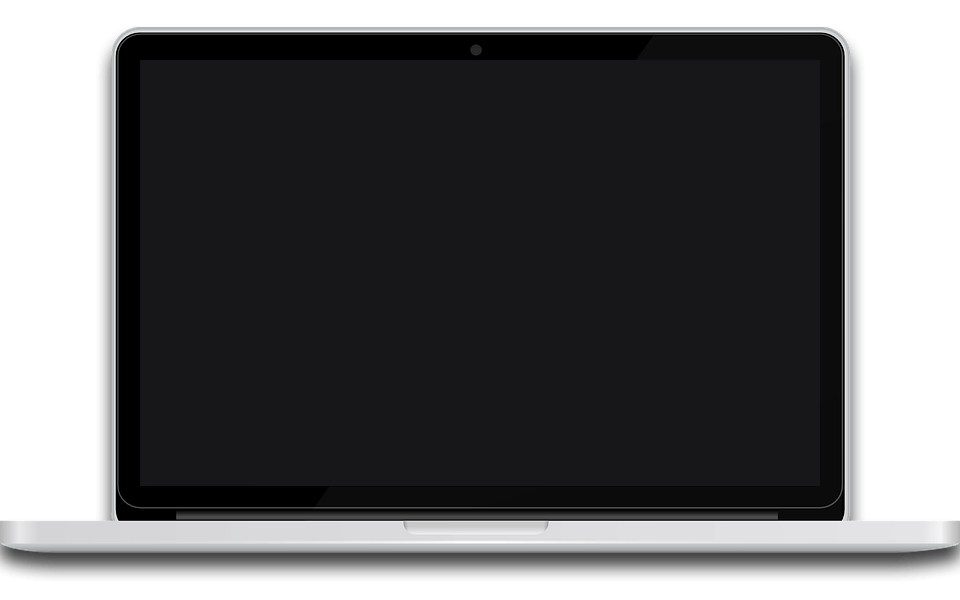
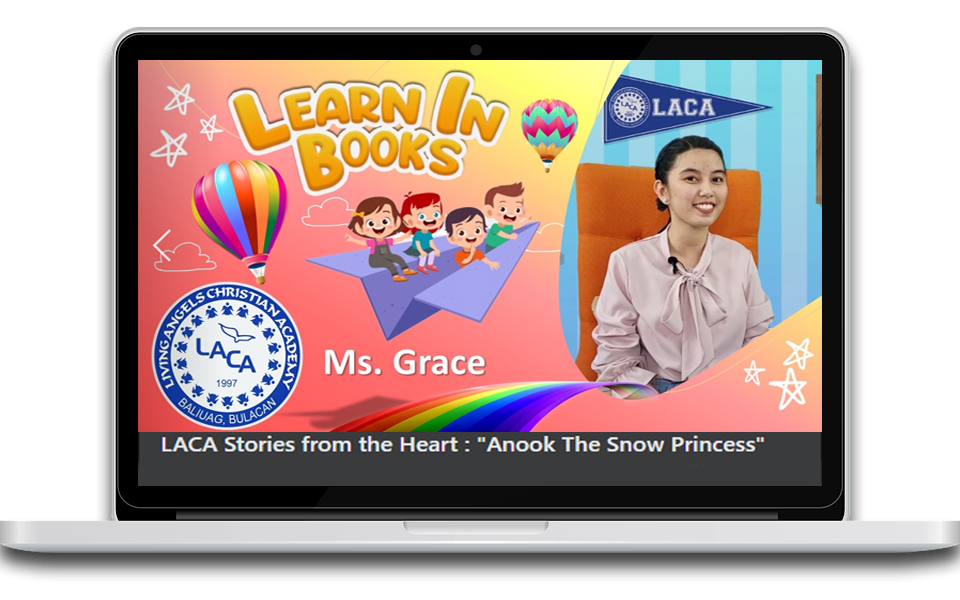
gsgf

diff --git a/assets/css/Slider-laptop.css b/assets/css/Slider-laptop.css
@@ -82,140 +82,14 @@
 
 /* ---------- SLIDER ---------- */
 
-#x_001_laptop {
-  top: 10%;
-  right: 0;
-  width: 71%;
-  height: 71%;
-  left: -0.5%;
-  bottom: auto;
-  margin: auto;
-  overflow: hidden;
-  position: absolute;
-  background: #17171a;
-}
 
-#x_001_laptop > .carousel-inner:hover {
-  cursor: -moz-grab;
-  cursor: -webkit-grab;
-}
-
-#x_001_laptop > .carousel-inner:active {
-  cursor: -moz-grabbing;
-  cursor: -webkit-grabbing;
-}
-
-#x_001_laptop > .carousel-inner > .carousel-item {
-  overflow: hidden;
-}
-
-#x_001_laptop > .carousel-inner > .carousel-item > img {
-  width: 100%;
-  margin: auto;
-}
 
 /* ---------- INDICATORS CONTROL ---------- */
 
-.x_001_laptop_indicators > .carousel-indicators {
-  left: 0;
-  right: 0;
-  margin: 0;
-  bottom: 0;
-  width: 100%;
-  font-size: 0;
-  height: 15px;
-  padding: 0 5px;
-  display: block;
-  overflow-x: auto;
-  overflow-y: hidden;
-  position: absolute;
-  text-align: center;
-  white-space: nowrap;
-}
-
-.x_001_laptop_indicators > .carousel-indicators li:before, .x_001_laptop_indicators > .carousel-indicators li:after {
-  display: none;
-}
-
-.x_001_laptop_indicators > .carousel-indicators li {
-  padding: 0;
-  width: 8px;
-  height: 8px;
-  border: none;
-  margin: 0 3px;
-  text-indent: 0;
-  cursor: pointer;
-  background: #ffffff;
-  display: inline-block;
-  -webkit-border-radius: 100%;
-  border-radius: 100%;
-}
-
-.x_001_laptop_indicators > .carousel-indicators .active {
-  padding: 0;
-  width: 8px;
-  height: 8px;
-  border: none;
-  margin: 0 3px;
-  background: #ff5a0e;
-  -webkit-border-radius: 100%;
-  border-radius: 100%;
-}
-
-.x_001_laptop_indicators > .carousel-indicators::-webkit-scrollbar {
-  height: 2px;
-}
-
-.x_001_laptop_indicators > .carousel-indicators::-webkit-scrollbar-thumb {
-  background: #eeeeee;
-  -webkit-border-radius: 0;
-  border-radius: 0;
-}
 
 /* ---------- LEFT/RIGHT CONTROL ---------- */
 
-.x_001_laptop_control_button .carousel-control-prev, .x_001_laptop_control_button .carousel-control-next {
-  top: 40%;
-  width: 20px;
-  bottom: auto;
-  height: 40px;
-  opacity: 0.9;
-  color: #ff5a0e;
-  font-size: 14px;
-  cursor: pointer;
-  font-weight: 700;
-  overflow: hidden;
-  line-height: 40px;
-  text-shadow: none;
-  text-align: center;
-  position: absolute;
-  background: #ffffff;
-  text-transform: uppercase;
-  -webkit-box-shadow: none;
-  box-shadow: none;
-  -webkit-transition: all 0.6s cubic-bezier(0.22,0.81,0.01,0.99);
-  transition: all 0.6s cubic-bezier(0.22,0.81,0.01,0.99);
-}
 
-.x_001_laptop_control_button .carousel-control-prev {
-  left: 0;
-  right: auto;
-  -webkit-border-radius: 0 100px 100px 0;
-  border-radius: 0 100px 100px 0;
-}
-
-.x_001_laptop_control_button .carousel-control-next {
-  left: auto;
-  right: 0;
-  -webkit-border-radius: 100px 0 0 100px;
-  border-radius: 100px 0 0 100px;
-}
-
-.x_001_laptop_control_button .carousel-control-prev:hover, .x_001_laptop_control_button .carousel-control-next:hover {
-  opacity: 1;
-  color: #ffffff;
-  background: #ff5a0e;
-}
 
 /* ------------------------------------------------------ */
 
@@ -291,136 +165,4 @@
 /* SLIDING TIMING FUNCTIONS
 /*-------------------------------------------- */
 
-/* ----- ps_ease ----- */
-
-.ps_ease .carousel-item {
-  -webkit-transition-timing-function: ease;
-  transition-timing-function: ease;
-}
-
-/* ----- ps_easeInOut ----- */
-
-.ps_easeInOut .carousel-item {
-  -webkit-transition-timing-function: ease-in-out;
-  transition-timing-function: ease-in-out;
-}
-
-/* ----- ps_speedy ----- */
-
-.ps_speedy .carousel-item {
-  -webkit-transition-timing-function: cubic-bezier(0,1,0,1);
-  transition-timing-function: cubic-bezier(0,1,0,1);
-}
-
-/* ----- ps_slowSpeedy ----- */
-
-.ps_slowSpeedy .carousel-item {
-  -webkit-transition-timing-function: cubic-bezier(0.3,1,0,1);
-  transition-timing-function: cubic-bezier(0.3,1,0,1);
-}
-
-/* ----- ps_easeOutInCubic ----- */
-
-.ps_easeOutInCubic .carousel-item {
-  -webkit-transition-timing-function: cubic-bezier(0.22,0.81,0.01,0.99);
-  transition-timing-function: cubic-bezier(0.22,0.81,0.01,0.99);
-}
-
-/* ----- ps_swing ----- */
-
-.ps_swing .carousel-item {
-  -webkit-transition-timing-function: cubic-bezier(.02,.01,.47,1);
-  transition-timing-function: cubic-bezier(.02,.01,.47,1);
-}
-
-/* ----- ps_easeOutCubic ----- */
-
-.ps_easeOutCubic .carousel-item {
-  -webkit-transition-timing-function: cubic-bezier(.215,.61,.355,1);
-  transition-timing-function: cubic-bezier(.215,.61,.355,1);
-}
-
-/* ----- ps_easeInOutCubic ----- */
-
-.ps_easeInOutCubic .carousel-item {
-  -webkit-transition-timing-function: cubic-bezier(.645,.045,.355,1);
-  transition-timing-function: cubic-bezier(.645,.045,.355,1);
-}
-
-/* ----- ps_easeOutCirc ----- */
-
-.ps_easeOutCirc .carousel-item {
-  -webkit-transition-timing-function: cubic-bezier(.075,.82,.165,1);
-  transition-timing-function: cubic-bezier(.075,.82,.165,1);
-}
-
-/* ----- ps_easeOutExpo ----- */
-
-.ps_easeOutExpo .carousel-item {
-  -webkit-transition-timing-function: cubic-bezier(.19,1,.22,1);
-  transition-timing-function: cubic-bezier(.19,1,.22,1);
-}
-
-/* ----- ps_easeInQuad ----- */
-
-.ps_easeInQuad .carousel-item {
-  -webkit-transition-timing-function: cubic-bezier(.55,.085,.68,.53);
-  transition-timing-function: cubic-bezier(.55,.085,.68,.53);
-}
-
-/* ----- ps_easeOutQuad ----- */
-
-.ps_easeOutQuad .carousel-item {
-  -webkit-transition-timing-function: cubic-bezier(.25,.46,.45,.94);
-  transition-timing-function: cubic-bezier(.25,.46,.45,.94);
-}
-
-/* ----- ps_easeInOutQuad ----- */
-
-.ps_easeInOutQuad .carousel-item {
-  -webkit-transition-timing-function: cubic-bezier(.455,.03,.515,.955);
-  transition-timing-function: cubic-bezier(.455,.03,.515,.955);
-}
-
-/* ----- ps_easeOutQuart ----- */
-
-.ps_easeOutQuart .carousel-item {
-  -webkit-transition-timing-function: cubic-bezier(.165,.84,.44,1);
-  transition-timing-function: cubic-bezier(.165,.84,.44,1);
-}
-
-/* ----- ps_easeInOutQuart ----- */
-
-.ps_easeInOutQuart .carousel-item {
-  -webkit-transition-timing-function: cubic-bezier(.77,0,.175,1);
-  transition-timing-function: cubic-bezier(.77,0,.175,1);
-}
-
-/* ----- ps_easeOutQuint ----- */
-
-.ps_easeOutQuint .carousel-item {
-  -webkit-transition-timing-function: cubic-bezier(.23,1,.32,1);
-  transition-timing-function: cubic-bezier(.23,1,.32,1);
-}
-
-/* ----- ps_easeInSine ----- */
-
-.ps_easeInSine .carousel-item {
-  -webkit-transition-timing-function: cubic-bezier(.47,0,.745,.715);
-  transition-timing-function: cubic-bezier(.47,0,.745,.715);
-}
-
-/* ----- ps_easeOutSine ----- */
-
-.ps_easeOutSine .carousel-item {
-  -webkit-transition-timing-function: cubic-bezier(.39,.575,.565,1);
-  transition-timing-function: cubic-bezier(.39,.575,.565,1);
-}
-
-/* ----- ps_easeInOutSine ----- */
-
-.ps_easeInOutSine .carousel-item {
-  -webkit-transition-timing-function: cubic-bezier(.445,.05,.55,.95);
-  transition-timing-function: cubic-bezier(.445,.05,.55,.95);
-}
 

diff --git a/index.html b/index.html
@@ -214,29 +214,16 @@ p.ex1 {
         </div>
     </div>
 
-
  <div class="x_001_laptop_main_wrap" style="background: url(&quot;assets/img/Registration%202021-2022.png&quot;);">
         <div class="row">
             <div class="col-md-7">
-                <div class="x_001_laptop_inner_wrap"><img src="assets/img/x_001_laptop_img.png" alt="x_001_laptop_img">
-                    <div id="x_001_laptop" class="carousel slide x_001_laptop_indicators x_001_laptop_control_button thumb_scroll_x swipe_x ps_easeOutQuad" ride="carousel" data-pause="hover" data-interval="8000" data-duration="2000">
-                        <ol class="carousel-indicators">
-                            <li class="active" data-target="#x_001_laptop" data-slide-to="0"></li>
-                            <li data-target="#x_001_laptop" data-slide-to="1"></li>
-                            <li data-target="#x_001_laptop" data-slide-to="2"></li>
-                        </ol>
-                        <div class="carousel-inner" role="listbox">
-                            <div class="carousel-item active"><img src="assets/img/article7.jpg" alt="x_001_laptop_01"></div>
+              <a href="https://www.youtube.com/watch?v=xeOIcVDlUqY&list=PLEanovqdBZNAaYgcRU0IfnF5mFExHawig"  <div class="x_001_laptop_inner_wrap"><img src="assets/img/x_001_laptop_img.png" alt="x_001_laptop_img"></a>
 
-                        </div>
-                    </div><a class="carousel-control-prev" href="#x_001_laptop" data-slide="prev"><i class="fa fa-angle-left"></i></a><a class="carousel-control-next" href="#x_001_laptop" data-slide="next"><span class="fa fa-angle-right"></span></a>
-                </div>
-            </div>
+
 
     </div>
     <div class="photo-gallery" style="background-size: cover;background-position: right;background-image: url(&quot;assets/img/bg2.png&quot;);">
         <div class="container" style="background-size: auto;background-repeat: no-repeat;">
-
 
 
                                 </div>
